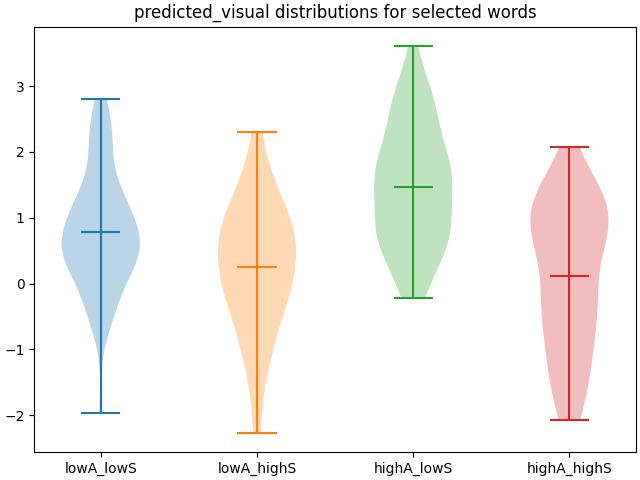
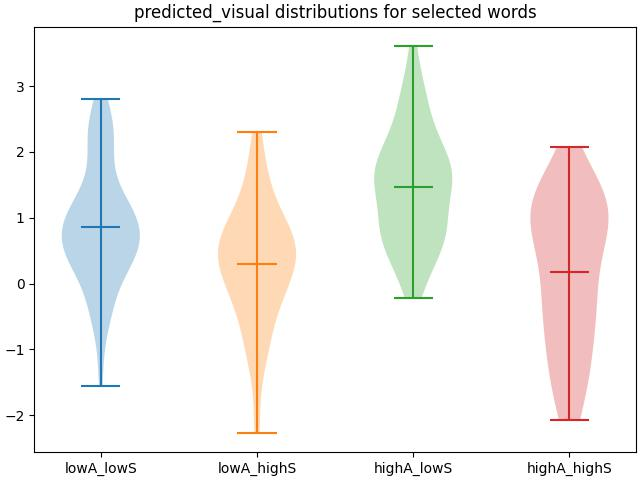
plots

diff --git a/11_read_and_plot_selected_distributions.py b/11_read_and_plot_selected_distributions.py
@@ -15,12 +15,16 @@ with open(os.path.join('output', 'candidate_nouns_all_variables.tsv')) as i:
         line = l.strip().split('\t')
         if l_i == 0:
             header = line.copy()
-            variables = {h : dict() for h in line[1:]}
+            variables = {h : dict() for h in line[1:] if 'lemma' not in h and h not in ['predicted_dominance', 'predicted_arousal', 'predicted_valence']}
         else:
             for h, val in zip(header, line):
                 if h == 'word':
                     word = val
                     full_words.append(word)
+                elif 'lemma' in h:
+                    continue
+                elif h in ['predicted_dominance', 'predicted_arousal', 'predicted_valence']:
+                    continue
                 else:
                     if val.isnumeric():
                         val = float(val)
@@ -34,6 +38,10 @@ remove = [
           'predicted_mouth', 
           'predicted_head', 
           'predicted_torso', 
+          'predicted_visual',
+          'predicted_olfactory',
+          'predicted_gustatory',
+          'predicted_hearing',
           ]
 relevant_keys = [h for h in variables.keys() if 'en_' not in h and 'raw_' not in h and h not in remove and 'proto' not in h]
 
@@ -253,7 +261,6 @@ for case, p in zip(cases, corrected_ps):
         print([case, p])
 print(k)
 
-'''
 ### plotting violinplots
 violin_folder = os.path.join('violins', 'left_for_localizer')
 os.makedirs(violin_folder, exist_ok=True)
@@ -270,4 +277,3 @@ for k in relevant_keys:
     pyplot.savefig(file_name)
     pyplot.clf()
     pyplot.close()
-'''
